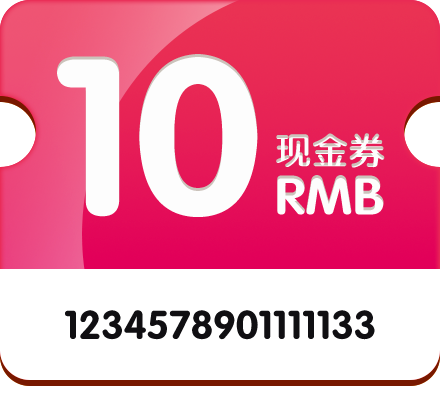
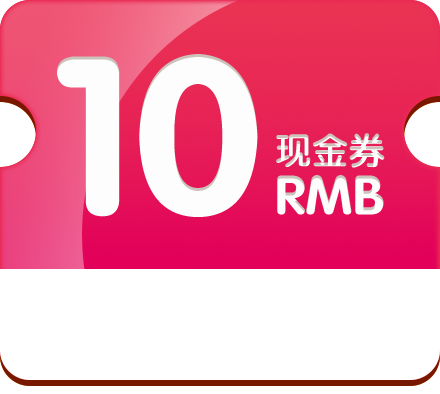
##

Changed region(s): [[0.1477, 0.7614, 0.8568, 0.8832]]

diff --git a/js/game.js b/js/game.js
@@ -232,6 +232,7 @@ $(function(){
                                     game.winTime = 600-game.time;
                                     if(game.winTime<=200){
                                         $("#rewardWay").removeClass("hide");
+                                        $("#reward-number").removeClass("hide");
                                         $("#crashes,#success").removeClass("hide");
                                         if(game.winTime<=50){
                                             $("#fail-img").attr({
@@ -257,6 +258,7 @@ $(function(){
                                             "width" : "100%"
                                         });
                                         $("#rewardWay").addClass("hide");
+                                        $("#reward-number").addClass("hide");
                                         $("#crashes,#fail").removeClass("hide");
 
                                     }
@@ -320,6 +322,7 @@ $(function(){
                         "width" : "80%"
                     });
                     $("#rewardWay").addClass("hide");
+                    $("#reward-number").addClass("hide");
                     $("#crashes,#fail").removeClass("hide");
                 }
             },100)

diff --git a/css/game.css b/css/game.css
@@ -195,7 +195,8 @@ div#string{height: 100%; width: 15%; background-position: 99.5% 83%; background-
 #rewardWay{width: 39.7vw; height: 11.4vw; display: block; margin: 0 auto 2vw; background: url("../img/way.png") no-repeat;
     -webkit-background-size: contain;
     background-size: contain;}
-#fail-flag{width: 60vw; height: 57vw; margin: 0 auto; text-align: center;}
+#fail-flag{width: 60vw; height: 57vw; margin: 0 auto; text-align: center; position: relative; font-size: 0;}
+#reward-number{position: absolute; left: 0; bottom: 4vw; width: 100%; height: 15.86vw; line-height: 15vw; color: #100f12; font-weight: bold; font-size: 1.2rem;}
 #continue-btn{background: url("../img/continue-btn.png") no-repeat center center;
     -webkit-background-size: 100% 100%;
     background-size: 100% 100%;}

diff --git a/index.html b/index.html
@@ -155,6 +155,7 @@
             <a href="ticket.html" id="rewardWay"></a>
             <div id="fail-flag">
                 <img src="img/fail-flag.png" alt="" id="fail-img" width="80%"/>
+                <div id="reward-number">12312312312</div>
             </div>
             <div class="crash-btns clearfix">
                 <div id="continue-btn" class="crash-btn again-btns pull-left"></div>
